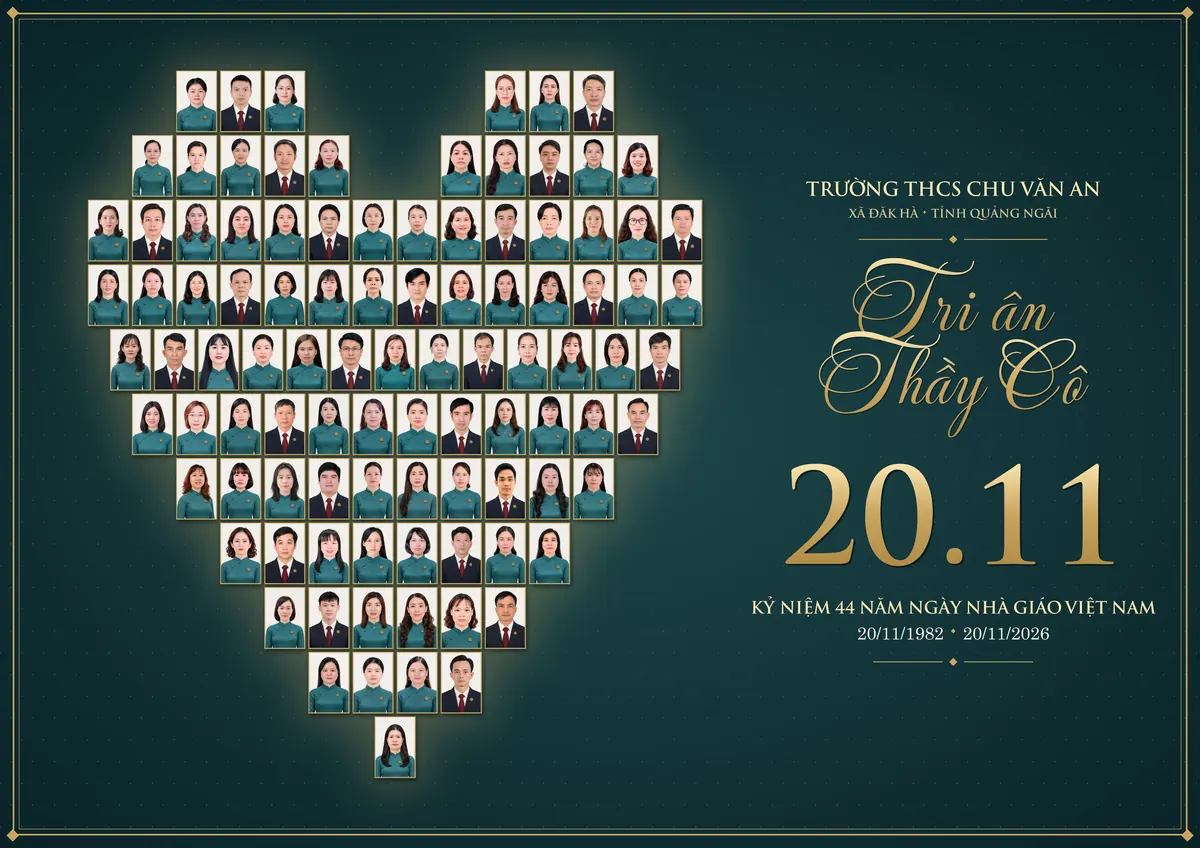
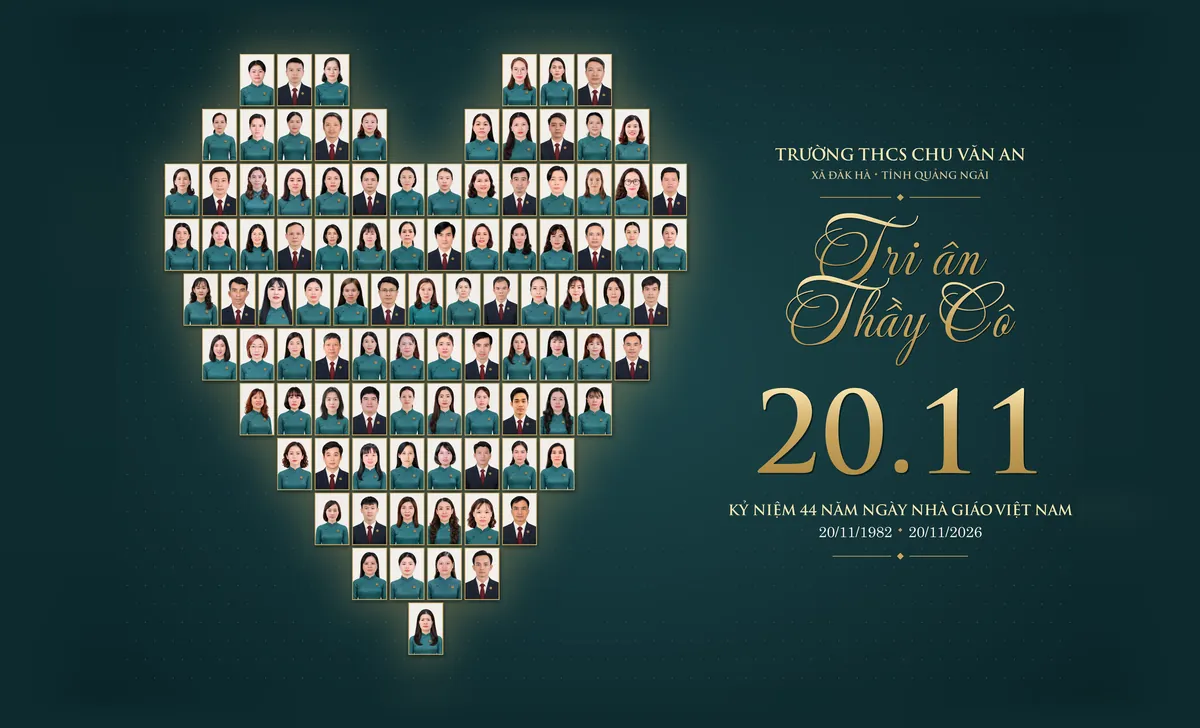
Màn hình đang tải: tranh khảm tri ân 20/11 làm nền toàn khung, chữ tải nằm dưới dòng ngày tháng trong tranh
- Ảnh nền cắt viền vàng, thêm lề xanh hòa màu nên không lộ mép trên mọi tỉ lệ màn hình
- Khung ngang: chữ/tiến độ/nút đặt vào khoảng trống cột chữ bên phải; khung nhỏ thu gọn nút
- Khung dọc: tranh trên, chữ dưới, cắt lề để tranh to hơn

diff --git a/src/entry.css b/src/entry.css
@@ -26,13 +26,40 @@
 .fallback-actions,.list-back{display:flex;flex-wrap:wrap;gap:10px;justify-content:center}
 .list-back{justify-content:flex-end;flex-shrink:0}
 @media(max-width:650px){.list-back{flex-direction:column;align-items:stretch}.list-back button{font-size:12px;padding:9px 12px}}
-/* 17/11: tranh khảm tri ân 20/11 ở màn hình đang tải — tranh ở trên, tiến độ gọn bên dưới */
-.visit-loading{gap:8px;padding:clamp(10px,2.5vh,24px) 16px;background:radial-gradient(ellipse at 50% 30%,#1d4448,#0c272b 70%)}
-.visit-loading-art{display:block;flex:0 1 auto;min-height:0;width:auto;height:auto;max-width:min(100%,1100px);max-height:calc(100% - 150px);object-fit:contain;border-radius:6px;box-shadow:0 14px 40px #0008;margin-bottom:6px}
-.visit-loading:not(.visit-loading-overlay) .visit-loading-art{max-height:calc(100dvh - 330px)}
-.visit-loading-track{margin-top:6px}
-@media (orientation:portrait) and (pointer:coarse){.visit-loading-art{max-height:calc(100% - 300px)}}
-@media (max-height:520px){.visit-loading{gap:4px;padding:8px 16px}.visit-loading strong{font-size:14px;line-height:1.4}.visit-loading-art{max-height:calc(100% - 92px);margin-bottom:2px}.visit-loading-pct{display:none}}
-.visit-loading-late .visit-loading-art{max-height:calc(100% - 250px)}
-@media (max-height:520px){.visit-loading-late .visit-loading-art{max-height:calc(100% - 150px)}.visit-loading-late .visit-loading-note{display:none}.visit-loading-late .visit-loading-actions{margin-top:4px}}
-@media (orientation:portrait) and (pointer:coarse){.visit-loading-late .visit-loading-art{max-height:calc(100% - 420px)}}
+/* 17/11: tranh khảm tri ân 20/11 làm NỀN màn hình đang tải.
+   Ảnh nền đã có sẵn lề xanh hòa màu (#0e2b2f) quanh tranh → phần dư hai bên cùng màu, không lộ mép.
+   .visit-stage giữ đúng tỉ lệ ảnh (2976×1806) và luôn nằm trọn khung; chữ tải đặt ở khoảng trống
+   dưới dòng “20/11/1982 · 20/11/2026” (cột chữ bên phải tranh). Điện thoại dọc: tranh trên, chữ dưới. */
+.visit-loading{container:visit/size;position:relative;display:flex;flex-direction:column;align-items:center;justify-content:center;gap:0;padding:0;overflow:hidden;background:#0e2b2f;border-radius:12px;min-height:0;height:calc(100dvh - 160px)}
+.visit-loading-overlay{position:absolute;inset:0;height:auto;border-radius:inherit}
+.visit-stage{position:relative;flex:0 0 auto;width:min(100cqw,164.8cqh);aspect-ratio:2976/1806;container:stage/inline-size}
+.visit-loading-art{position:absolute;inset:0;display:block;width:100%;height:100%;object-fit:cover;pointer-events:none;user-select:none}
+.visit-loading-info{position:absolute;left:61%;width:28.5%;top:78.6%;display:flex;flex-direction:column;align-items:center;gap:.55cqw;text-align:center;animation:visit-info-in .6s ease-out both}
+.visit-loading-info strong{font:600 clamp(12px,1.32cqw,20px)/1.35 "Noto Serif",serif;color:#f3e4c4;letter-spacing:.01em;text-shadow:0 1px 6px #0009}
+.visit-loading-info>span{font:400 clamp(10px,.92cqw,14px)/1.4 "Noto Sans",sans-serif;color:#c9d8d4;text-shadow:0 1px 4px #0009}
+.visit-loading-info .visit-loading-track{width:72%;max-width:260px;height:3px;margin-top:.35cqw;background:#e1c28626}
+.visit-loading-info .visit-loading-track i{background:linear-gradient(90deg,#b8924f,#f0d18d)}
+.visit-loading-info .visit-loading-pct{font-size:clamp(10px,.85cqw,13px);margin-top:0;color:#e1c286}
+.visit-loading-info .visit-loading-actions{margin-top:.5cqw;gap:.7cqw}
+.visit-loading-info .visit-loading-actions button{min-height:clamp(30px,2.7cqw,44px);padding:.35em 1.15em;font-size:clamp(11px,.95cqw,14px);border-radius:999px}
+.visit-loading-info .visit-loading-note{display:none}
+@keyframes visit-info-in{from{opacity:0;transform:translateY(6px)}to{opacity:1;transform:none}}
+/* khung 3D nhỏ (điện thoại ngang): khi chậm bỏ dòng phụ và % để đủ chỗ cho nút */
+@container stage (max-width:760px){
+ .visit-loading-late .visit-loading-info>span,.visit-loading-late .visit-loading-info .visit-loading-pct{display:none}
+ .visit-loading-info{gap:4px;left:58.5%;width:39%}
+ .visit-loading-info .visit-loading-actions{flex-wrap:nowrap;gap:6px;margin-top:2px}
+ .visit-loading-info .visit-loading-actions button{min-height:28px;padding:.3em .95em;font-size:11px;white-space:nowrap}
+}
+/* khung dọc (điện thoại cầm đứng): tranh phía trên, chữ tải và gợi ý xoay ngang phía dưới */
+@container visit (orientation:portrait){
+ .visit-loading{justify-content:center}
+ .visit-stage{width:100cqw;aspect-ratio:auto}
+ .visit-loading-art{position:static;height:auto;aspect-ratio:2420/1720;object-fit:cover;object-position:50% 45%}
+ .visit-loading-info{position:static;width:auto;max-width:320px;margin:18px auto 0;padding:0 16px;gap:8px}
+ .visit-loading-info strong{font-size:16px}.visit-loading-info>span{font-size:12px}.visit-loading-info .visit-loading-pct{font-size:12px}
+ .visit-loading-info .visit-loading-actions{margin-top:10px;gap:10px}.visit-loading-info .visit-loading-actions button{min-height:44px;font-size:14px}
+ .visit-loading-info .visit-loading-note{display:block}
+ .visit-loading-late .visit-loading-info>span,.visit-loading-late .visit-loading-info .visit-loading-pct{display:revert}
+}
+@media (prefers-reduced-motion:reduce){.visit-loading-info{animation:none}}

diff --git a/src/components/VisitLoading.tsx b/src/components/VisitLoading.tsx
@@ -11,16 +11,20 @@ export default function VisitLoading({overlay=false,pct=null,stage,stalled=false
  useEffect(()=>{const t=setTimeout(()=>setSlow(true),SLOW_MS);return()=>clearTimeout(t);},[]);
  const late=slow||stalled;
  return <div className={'visit-loading'+(overlay?' visit-loading-overlay':'')+(late?' visit-loading-late':'')} role="status" aria-live="polite" aria-label="Đang chuẩn bị chuyến tham quan">
-  <img className="visit-loading-art" src={TRI_AN+'-1200.webp'} srcSet={TRI_AN+'-1200.webp 1200w, '+TRI_AN+'-1600.webp 1600w'} sizes="(max-width:900px) 100vw, 80vw" alt="Tranh khảm tri ân thầy cô nhân ngày Nhà giáo Việt Nam 20/11" decoding="async" fetchPriority="high"/>
-  <strong>{stalled?'Tải đang bị gián đoạn':late?'Đường truyền hơi chậm, vẫn đang tải…':'Đang mở không gian tham quan'}</strong><span>{stage||'Chuẩn bị ánh sáng và hình ảnh'}</span>
-  {pct===null
-   ?<div className="visit-loading-track" aria-hidden="true"><i/></div>
-   :<><div className="visit-loading-track visit-loading-bar" role="progressbar" aria-label="Tiến độ tải" aria-valuemin={0} aria-valuemax={100} aria-valuenow={pct}><i style={{width:pct+'%'}}/></div><span className="visit-loading-pct" aria-hidden="true">{pct}%</span></>}
-  {late&&<div className="visit-loading-actions">
-   <button type="button" onClick={()=>window.location.reload()}>Thử lại</button>
-   {onList&&<button type="button" className="visit-loading-alt" onClick={onList}>Xem danh sách ảnh</button>}
-  </div>}
-  {late&&onList&&<p className="visit-loading-note">Danh sách ảnh xem được ngay, không cần tải không gian 3D.</p>}
+  <div className="visit-stage">
+   <img className="visit-loading-art" src={TRI_AN+'-1200.webp'} srcSet={TRI_AN+'-1200.webp 1200w, '+TRI_AN+'-1800.webp 1800w, '+TRI_AN+'-2600.webp 2600w'} sizes="(orientation:portrait) 100vw, min(100vw, 165vh)" alt="Tranh khảm tri ân thầy cô nhân ngày Nhà giáo Việt Nam 20/11" decoding="async" fetchPriority="high" draggable={false}/>
+   <div className="visit-loading-info">
+    <strong>{stalled?'Tải đang bị gián đoạn':late?'Đường truyền hơi chậm, vẫn đang tải…':'Đang mở không gian tham quan'}</strong><span>{stage||'Chuẩn bị ánh sáng và hình ảnh'}</span>
+    {pct===null
+     ?<div className="visit-loading-track" aria-hidden="true"><i/></div>
+     :<><div className="visit-loading-track visit-loading-bar" role="progressbar" aria-label="Tiến độ tải" aria-valuemin={0} aria-valuemax={100} aria-valuenow={pct}><i style={{width:pct+'%'}}/></div><span className="visit-loading-pct" aria-hidden="true">{pct}%</span></>}
+    {late&&<div className="visit-loading-actions">
+     <button type="button" onClick={()=>window.location.reload()}>Thử lại</button>
+     {onList&&<button type="button" className="visit-loading-alt" onClick={onList}>Xem danh sách ảnh</button>}
+    </div>}
+    {late&&onList&&<p className="visit-loading-note">Danh sách ảnh xem được ngay, không cần tải không gian 3D.</p>}
+   </div>
+  </div>
   {/* 16/11: phones held upright — ask for landscape (CSS shows it only in portrait on touch screens) */}
   <p className="visit-rotate-hint"><svg viewBox="0 0 48 48" fill="none" stroke="currentColor" strokeWidth="2" strokeLinecap="round" strokeLinejoin="round" aria-hidden="true"><rect x="15" y="5" width="18" height="30" rx="3"/><path d="M8 30a16 16 0 0 0 14 13M40 18A16 16 0 0 0 26 5"/></svg><span>Mở khóa xoay màn hình và <b>xoay ngang điện thoại</b> để tham quan rõ và rộng hơn</span></p>
  </div>;
